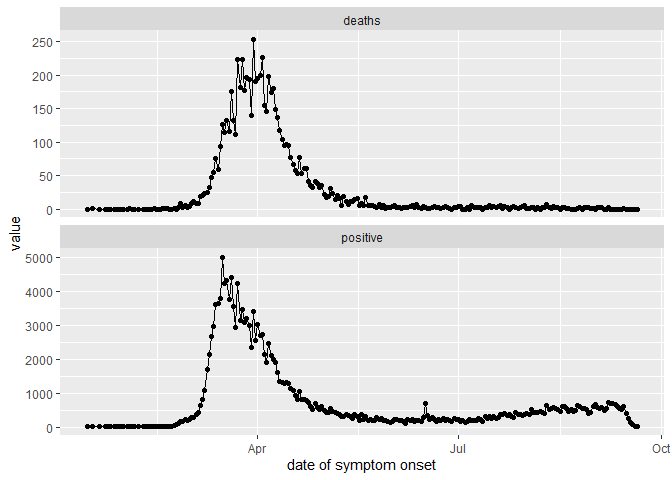
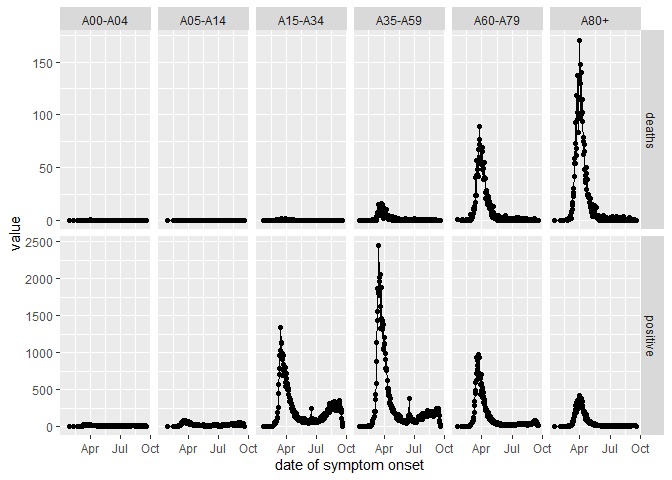
first readme version

diff --git a/README.md b/README.md
@@ -23,10 +23,69 @@ You can install the development version from
 devtools::install_github("Schmidtpk/CovidGer")
 ```
 
-## Example: Case data by the rki
+## Case data by the rki
 
 This is a basic example which shows you how to use the case data by the
 rki. See `?rki_new` for the data source.
 
 The following example aggregates German wide cases and deaths by symptom
-onset. <img src="man/figures/README-example-1.png" width="100%" />
+onset.
+
+``` r
+library(CovidGer)
+library(dplyr)
+library(tidyr)
+library(ggplot2)
+
+df<-rki_new %>%
+  dplyr::filter(!is.na(Refdatum))%>%
+  group_by(Refdatum,age)%>%
+  summarise(
+    positive= sum(AnzahlFall[Neuer.Fall%in%c(0,1)]),
+    deaths = sum(AnzahlTodesfall[Neuer.Todesfall%in%c(0,1)])
+  ) %>%
+  rename(
+    date=Refdatum,
+  )%>%pivot_longer(c(positive,deaths))
+
+ggplot(df,aes(x=date,y=value))+
+  geom_point()+
+  geom_line()+
+  facet_grid(name~age,scale="free_y")+
+  xlab("date of symptom onset")
+```
+
+<img src="man/figures/README-example-1.png" width="100%" />
+
+## Delay from Symptom onset to reporting to health departement
+
+The following code computes the delay from symptom onset to reporting.
+Symptom onset is given in `Refdatum` and reporting date in `Meldedatum`.
+
+``` r
+rki_new %>%
+  dplyr::filter(Refdatum>=as.Date("2020-03-01"),
+                Refdatum<as.Date("2020-09-01"))%>%
+  mutate(
+    delay = as.numeric(Meldedatum-Refdatum),
+    delay = if_else(delay>14,14,delay),
+    delay = if_else(delay<(-7),-7,delay)) %>%
+  group_by(Refdatum)%>%
+  summarise(
+    delaym = mean(delay,na.rm=TRUE),
+    delay1 = quantile(delay,na.rm=TRUE,probs = .1),
+    delay9 = quantile(delay,na.rm=TRUE,probs = .9))%>%
+  rename(date = Refdatum)%>%
+  ggplot(aes(x=date,y=delaym))+
+  geom_ribbon(aes(ymin=delay1,ymax=delay9),alpha=.2)+
+  geom_line()
+```
+
+<img src="man/figures/README-unnamed-chunk-2-1.png" width="100%" />
+
+### Other data
+
+The Package also contains data on population statistics
+(Regionaldatenbank) in `regionaldatenbank`, on location specific weather
+in `weather_dwd`, on policy interventions in `interventions.list` and
+`interventions`.
